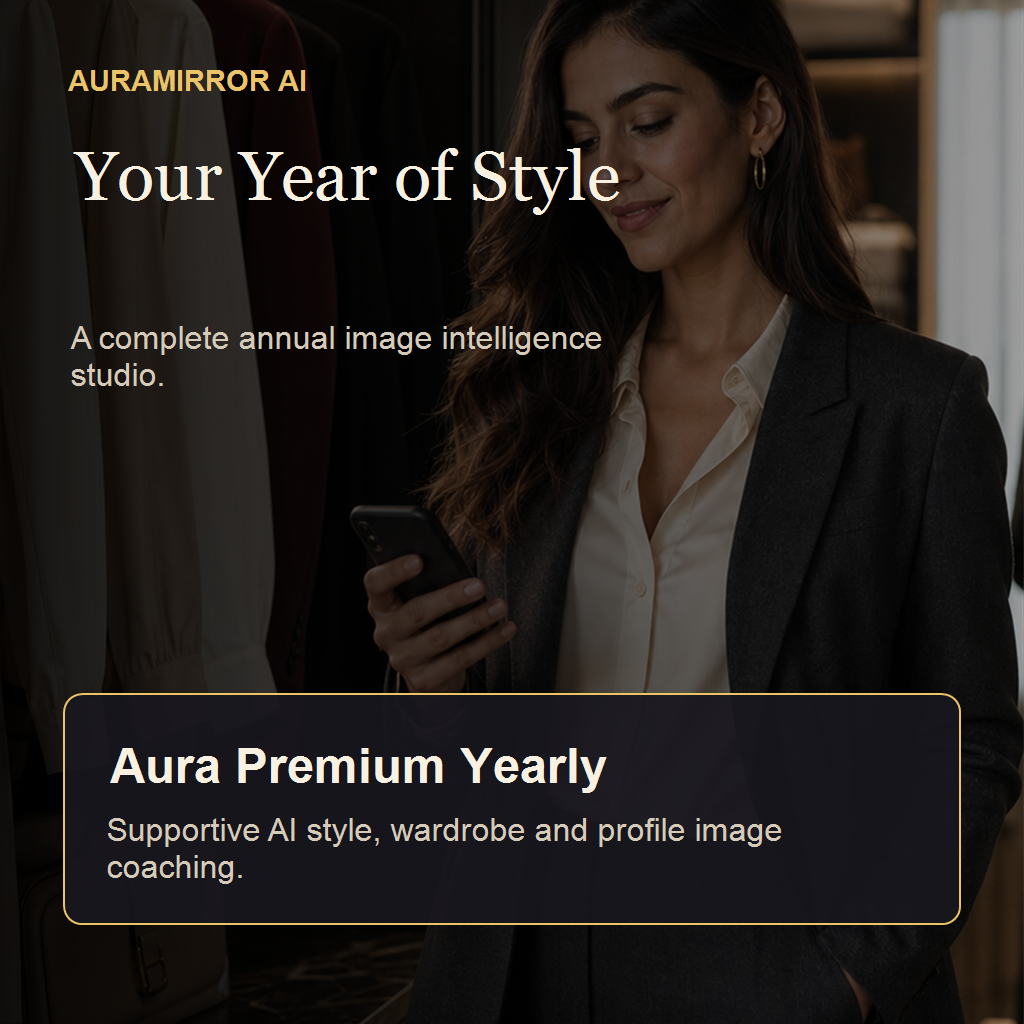
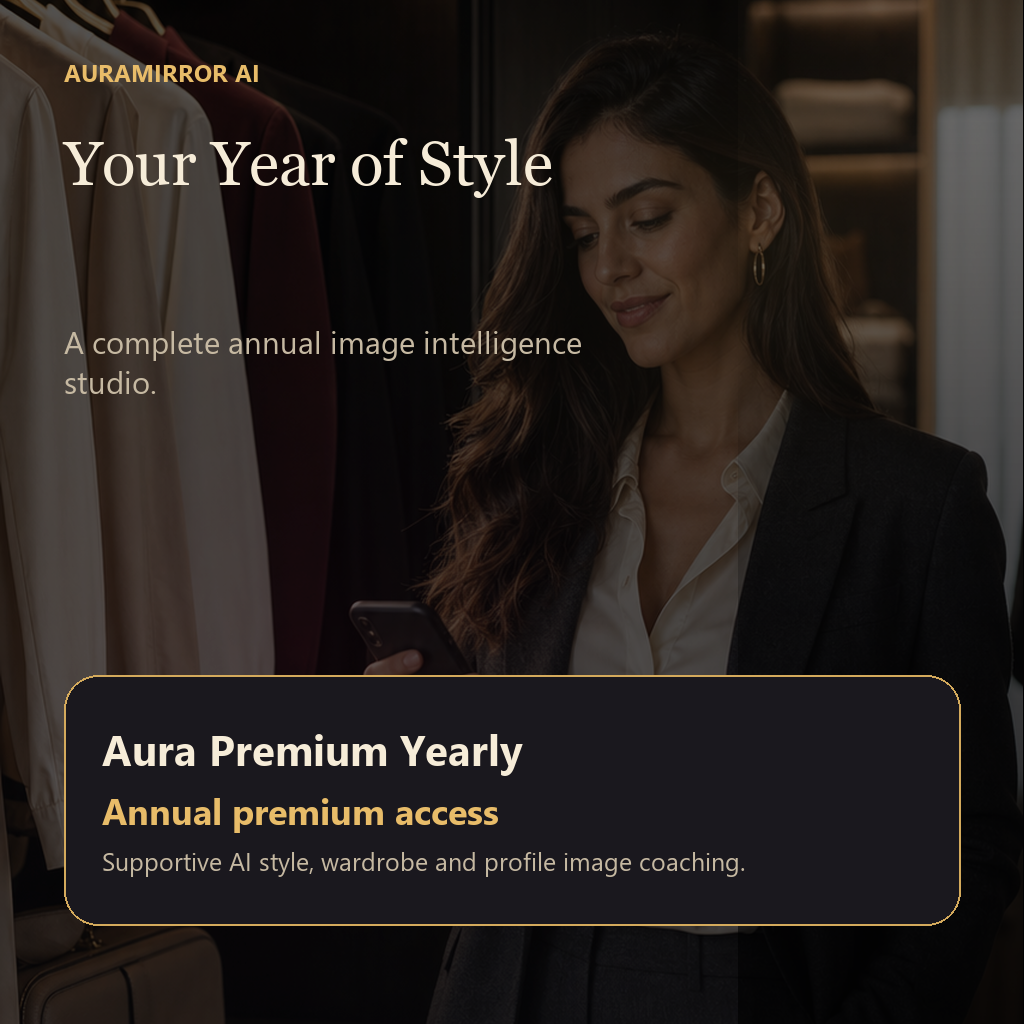
Resubmit price-free subscription images

diff --git a/tools/upload_subscription_images.rb b/tools/upload_subscription_images.rb
@@ -176,6 +176,75 @@ def upload_subscription_image(subscription_id, image_path, token)
   puts "Committed #{path.basename}: #{state}"
 end
 
+def review_submission_id
+  value = ENV["ASC_REVIEW_SUBMISSION_ID"]
+  return nil if value.nil? || value.strip.empty?
+
+  value.strip
+end
+
+def resolve_review_submission_items(submission_id, token)
+  response = api_request(
+    "get",
+    "/reviewSubmissions/#{submission_id}/items",
+    token,
+    query: {
+      "fields[reviewSubmissionItems]" => "removed,resolved",
+      "limit" => "20"
+    }
+  )
+
+  items = response.fetch("data", [])
+  abort("Review submission #{submission_id} did not return any items") if items.empty?
+
+  items.each do |item|
+    item_id = item.fetch("id")
+    removed = item.dig("attributes", "removed")
+    resolved = item.dig("attributes", "resolved")
+    if removed || resolved
+      puts "Skipping review submission item #{item_id}: removed=#{removed.inspect} resolved=#{resolved.inspect}"
+      next
+    end
+
+    puts "Marking review submission item #{item_id} as resolved"
+    api_request(
+      "patch",
+      "/reviewSubmissionItems/#{item_id}",
+      token,
+      body: {
+        data: {
+          type: "reviewSubmissionItems",
+          id: item_id,
+          attributes: {
+            resolved: true
+          }
+        }
+      }
+    )
+  end
+end
+
+def resubmit_review_submission(submission_id, token)
+  puts "Resubmitting review submission #{submission_id}"
+  updated = api_request(
+    "patch",
+    "/reviewSubmissions/#{submission_id}",
+    token,
+    body: {
+      data: {
+        type: "reviewSubmissions",
+        id: submission_id,
+        attributes: {
+          submitted: true
+        }
+      }
+    }
+  )
+  state = updated.dig("data", "attributes", "state") || "(unknown)"
+  submitted = updated.dig("data", "attributes", "submitted")
+  puts "Review submission #{submission_id}: state=#{state} submitted=#{submitted.inspect}"
+end
+
 token = jwt_token
 
 [
@@ -184,4 +253,9 @@ token = jwt_token
 ].each do |subscription_id, image_path|
   delete_existing_images(subscription_id, token)
   upload_subscription_image(subscription_id, image_path, token)
+end
+
+if (submission_id = review_submission_id)
+  resolve_review_submission_items(submission_id, token)
+  resubmit_review_submission(submission_id, token)
 end